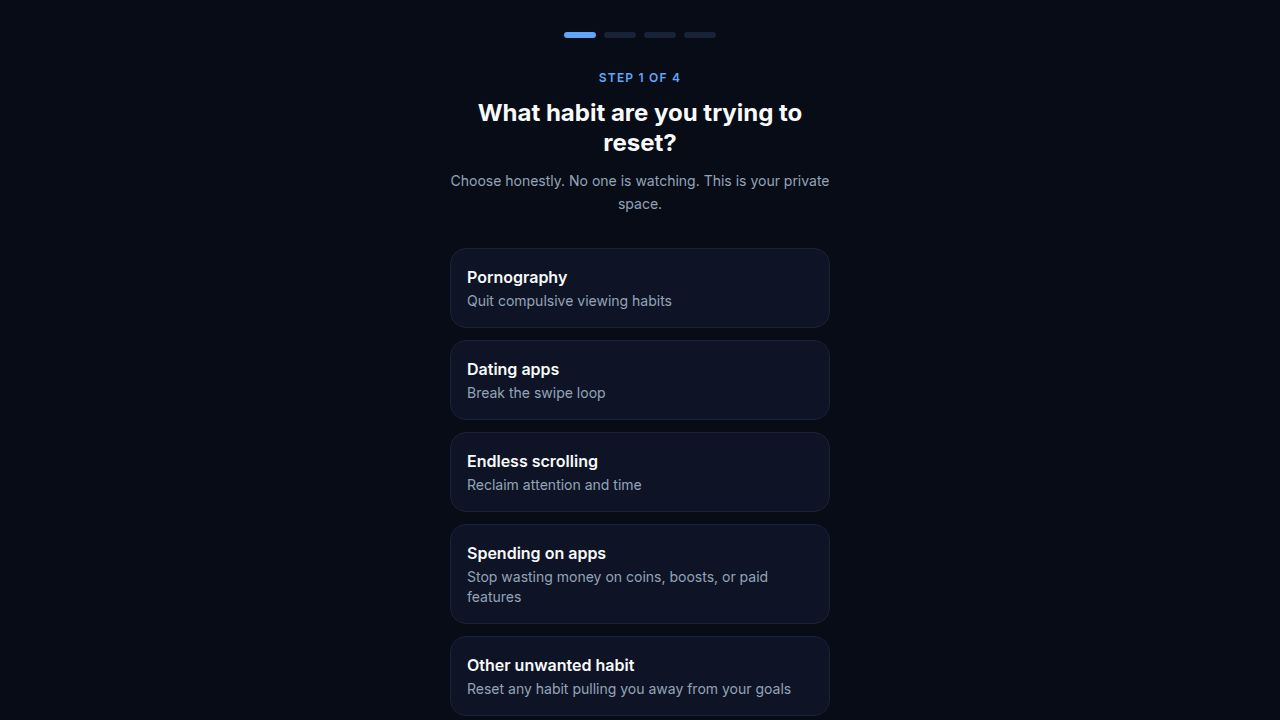
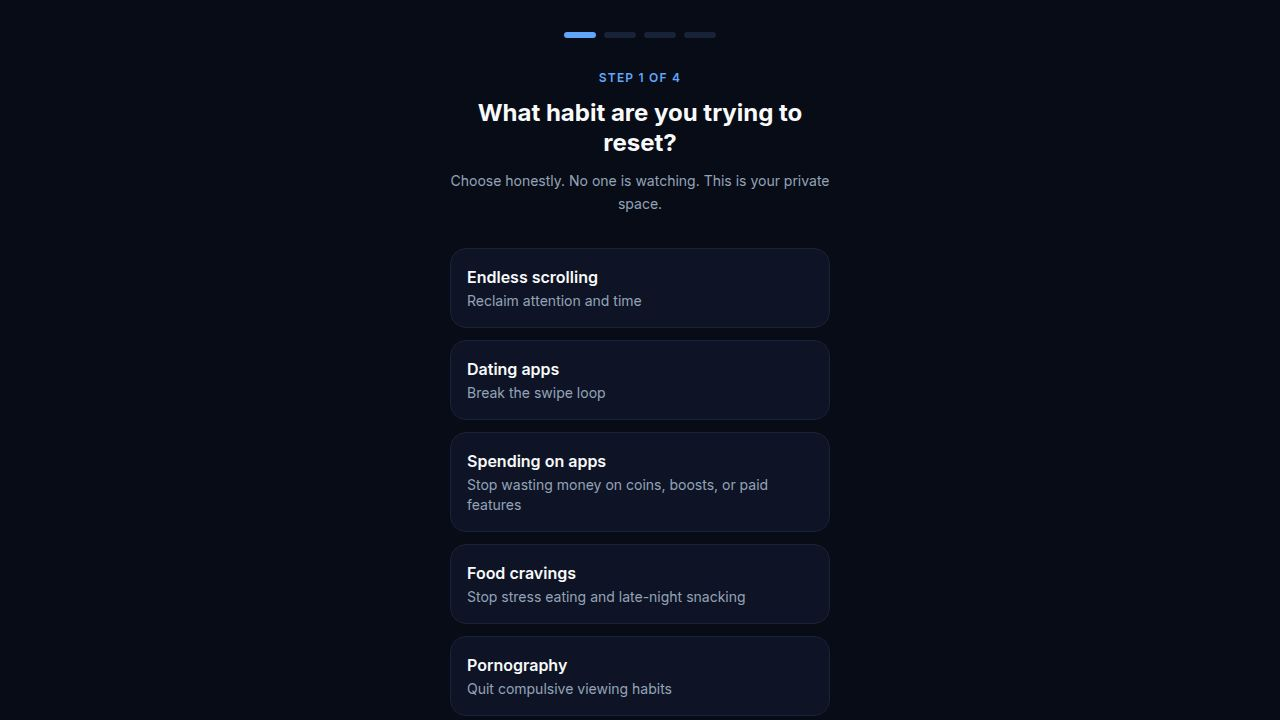
Add food cravings as a habit option and enhance journaling
Introduce a new habit option for food cravings, including personalized dashboard messages, reminders, journal prompts, and simulation scenarios. This update reorders existing habit options and adds new content while ensuring no existing features or user data are affected.

Replit-Commit-Author: Agent
Replit-Commit-Session-Id: 0effe963-2fe0-43ae-a0b1-7ca2946d003b
Replit-Commit-Checkpoint-Type: full_checkpoint
Replit-Commit-Event-Id: 398e0b98-f2e5-4a91-ab90-6e26aaa73a98
Replit-Commit-Screenshot-Url: https://storage.googleapis.com/screenshot-production-us-central1/4121feaa-ffd3-4787-ab1d-226ff5b35744/0effe963-2fe0-43ae-a0b1-7ca2946d003b/EosXHPg
Replit-Helium-Checkpoint-Created: true

diff --git a/artifacts/reset-mode/src/lib/habitContent.ts b/artifacts/reset-mode/src/lib/habitContent.ts
@@ -1,0 +1,53 @@
+import type { HabitType } from "./storage";
+
+// Per-habit content overrides. Any habit without an entry falls back to the
+// existing generic copy, so this module is purely additive — it never changes
+// behavior for habits it does not explicitly cover.
+
+// Reminder lines used during the danger zone, tailored to the habit.
+const DANGER_MESSAGES: Partial<Record<NonNullable<HabitType>, string[]>> = {
+  food: [
+    "The craving is loud right now. Drink a glass of water and let it pass.",
+    "You are not hungry — you are triggered. Breathe before the kitchen.",
+    "This late-night pull will fade. Protect tomorrow's version of you.",
+    "You don't need the snack. You need one calm decision.",
+    "Stress is not hunger. Reset before you reach for food.",
+    "Ride the craving — don't feed it. It passes in minutes.",
+    "Don't trade tomorrow's progress for tonight's snack.",
+    "Your danger zone has started. Step away from the fridge and breathe.",
+  ],
+};
+
+export function habitDangerMessages(habit: HabitType): string[] | undefined {
+  return habit ? DANGER_MESSAGES[habit] : undefined;
+}
+
+// Motivational "daily reminder" copy shown on the dashboard, bucketed by streak.
+// Returns null when the habit has no override so the caller keeps its default.
+export function habitDailyReminder(habit: HabitType, streak: number): string | null {
+  if (habit === "food") {
+    if (streak === 0) return "Every reset starts with one clean day. Today you choose control over the craving.";
+    if (streak < 7) return "Win the next craving. Water, wait ten minutes, and it passes.";
+    if (streak < 14) return "You have ridden out cravings before. Do it again.";
+    return "You are not giving up food. You are taking back control of when and why you eat.";
+  }
+  return null;
+}
+
+// Journal copy tailored to what the urge pulls the user toward.
+export interface JournalCopy {
+  calledByLabel: string;
+  calledByPlaceholder: string;
+  triggerPlaceholder: string;
+}
+
+export function habitJournalCopy(habit: HabitType): JournalCopy | null {
+  if (habit === "food") {
+    return {
+      calledByLabel: "What food did you crave?",
+      calledByPlaceholder: "e.g. Chips, ice cream, leftovers...",
+      triggerPlaceholder: "e.g. Stress, boredom, late night, walked past the kitchen...",
+    };
+  }
+  return null;
+}

diff --git a/artifacts/reset-mode/src/pages/Journal.tsx b/artifacts/reset-mode/src/pages/Journal.tsx
@@ -6,8 +6,9 @@ import { Textarea } from "@/components/ui/textarea";
 import { Label } from "@/components/ui/label";
 import { Card } from "@/components/ui/card";
 import { Select, SelectContent, SelectItem, SelectTrigger, SelectValue } from "@/components/ui/select";
-import { useJournalEntries } from "@/lib/storage";
-import type { JournalEntry } from "@/lib/storage";
+import { useJournalEntries, useStorage } from "@/lib/storage";
+import { habitJournalCopy } from "@/lib/habitContent";
+import type { JournalEntry, HabitType } from "@/lib/storage";
 
 const MOODS = ["Bored", "Lonely", "Stressed", "Tired", "Rejected", "Anxious"];
 
@@ -30,6 +31,8 @@ function dangerHour(entries: JournalEntry[]): string {
 
 export default function Journal() {
   const [entries, setEntries] = useJournalEntries();
+  const [habit] = useStorage<HabitType>("resetMode_habit", null);
+  const journalCopy = habitJournalCopy(habit);
   const [showForm, setShowForm] = useState(false);
   const [expandedId, setExpandedId] = useState<string | null>(null);
 
@@ -110,17 +113,17 @@ export default function Journal() {
                 <Label className="text-sm text-muted-foreground mb-1.5 block">What triggered it?</Label>
                 <Input
                   data-testid="input-trigger"
-                  placeholder="e.g. Sitting alone, late night, bored..."
+                  placeholder={journalCopy?.triggerPlaceholder ?? "e.g. Sitting alone, late night, bored..."}
                   value={trigger}
                   onChange={(e) => setTrigger(e.target.value)}
                   className="bg-background border-border"
                 />
               </div>
               <div>
-                <Label className="text-sm text-muted-foreground mb-1.5 block">Which app / habit called you?</Label>
+                <Label className="text-sm text-muted-foreground mb-1.5 block">{journalCopy?.calledByLabel ?? "Which app / habit called you?"}</Label>
                 <Input
                   data-testid="input-app-wanted"
-                  placeholder="e.g. Tinder, Instagram..."
+                  placeholder={journalCopy?.calledByPlaceholder ?? "e.g. Tinder, Instagram..."}
                   value={appWanted}
                   onChange={(e) => setAppWanted(e.target.value)}
                   className="bg-background border-border"

diff --git a/artifacts/reset-mode/src/pages/Home.tsx b/artifacts/reset-mode/src/pages/Home.tsx
@@ -5,6 +5,7 @@ import { Button } from "@/components/ui/button";
 import { Card } from "@/components/ui/card";
 import { useStreakInfo, useUrgesDefeated, useStartDate, useSpendings, useStorage, habitLabel } from "@/lib/storage";
 import { OnboardingModal } from "@/components/OnboardingModal";
+import { habitDailyReminder } from "@/lib/habitContent";
 import type { HabitType } from "@/lib/storage";
 
 function StatCard({ icon: Icon, label, value, sub }: { icon: React.ElementType; label: string; value: string | number; sub?: string }) {
@@ -158,15 +159,16 @@ export default function Home() {
             <span className="text-xs uppercase tracking-widest text-muted-foreground font-medium">Daily Reminder</span>
           </div>
           <p className="text-sm text-foreground font-medium leading-relaxed">
-            {currentStreak === 0
-              ? habit
-                ? `Every reset starts with one clean day. Today you choose your goal over ${habitLabel(habit).toLowerCase()}.`
-                : "Every journey starts with a single clean day. This is yours."
-              : currentStreak < 7
-              ? "Win the next 2 minutes. That is all you need."
-              : currentStreak < 14
-              ? "You have already defeated urges before. Do it again."
-              : "You are not quitting pleasure. You are taking back control."}
+            {habitDailyReminder(habit, currentStreak) ??
+              (currentStreak === 0
+                ? habit
+                  ? `Every reset starts with one clean day. Today you choose your goal over ${habitLabel(habit).toLowerCase()}.`
+                  : "Every journey starts with a single clean day. This is yours."
+                : currentStreak < 7
+                ? "Win the next 2 minutes. That is all you need."
+                : currentStreak < 14
+                ? "You have already defeated urges before. Do it again."
+                : "You are not quitting pleasure. You are taking back control.")}
           </p>
         </div>
       </div>

diff --git a/artifacts/reset-mode/src/hooks/useDangerZoneNotifications.ts b/artifacts/reset-mode/src/hooks/useDangerZoneNotifications.ts
@@ -1,6 +1,7 @@
 import { useEffect, useRef } from "react";
 import { useStorage, DEFAULT_SETTINGS } from "@/lib/storage";
-import type { Settings } from "@/lib/storage";
+import type { Settings, HabitType } from "@/lib/storage";
+import { habitDangerMessages } from "@/lib/habitContent";
 import {
   isInDangerWindow,
   nextDangerMessage,
@@ -18,6 +19,7 @@ const INTENSITY_MS: Record<string, number> = {
 
 export function useDangerZoneNotifications() {
   const [settings] = useStorage<Settings>("resetMode_settings", DEFAULT_SETTINGS);
+  const [habit] = useStorage<HabitType>("resetMode_habit", null);
   const intervalRef = useRef<ReturnType<typeof setInterval> | null>(null);
   const morningFiredRef = useRef<string | null>(null); // tracks which day the morning reminder fired
 
@@ -34,10 +36,11 @@ export function useDangerZoneNotifications() {
 
     const intervalMs = INTENSITY_MS[s.dangerZoneIntensity] ?? INTENSITY_MS.normal;
     const goal = s.dangerZoneGoalReminderEnabled && s.userGoal ? s.userGoal : undefined;
+    const habitMsgs = habitDangerMessages(habit);
 
     async function fire() {
       if (!isInDangerWindow(s.dangerZoneStart, s.dangerZoneEnd)) return;
-      const message = nextDangerMessage(goal);
+      const message = nextDangerMessage(goal, habitMsgs);
       const sent = await sendBrowserNotification(message);
       if (!sent) fireInAppReminder(message);
     }
@@ -55,6 +58,7 @@ export function useDangerZoneNotifications() {
     s.dangerZoneIntensity,
     s.dangerZoneGoalReminderEnabled,
     s.userGoal,
+    habit,
   ]);
 
   // ── Morning goal reminder — polls every minute, fires once per day ──────────

diff --git a/artifacts/reset-mode/src/lib/simulation.ts b/artifacts/reset-mode/src/lib/simulation.ts
@@ -7,6 +7,8 @@ import {
   ScrollText,
   CreditCard,
   Flame,
+  UtensilsCrossed,
+  Cookie,
   type LucideIcon,
 } from "lucide-react";
 
@@ -27,7 +29,7 @@ export interface Reflection {
   label: string;
 }
 
-// 8 common weak moments people practice before they happen for real.
+// Common weak moments people practice before they happen for real.
 export const SIMULATIONS: Simulation[] = [
   {
     id: "late_night",
@@ -84,6 +86,20 @@ export const SIMULATIONS: Simulation[] = [
     Icon: Flame,
     scenario:
       "Something on your feed triggered the old craving out of nowhere. Your body reacts before your mind does, and the urge spikes fast.",
+  },
+  {
+    id: "fridge_pull",
+    label: "Late night fridge pull",
+    Icon: UtensilsCrossed,
+    scenario:
+      "It is late and the kitchen is quietly calling. You are not really hungry, but the fridge promises comfort. Your feet are already drifting toward it.",
+  },
+  {
+    id: "stress_snack",
+    label: "Stress snacking after a hard day",
+    Icon: Cookie,
+    scenario:
+      "The day drained you, and food feels like the fastest way to numb it. The snack promises quick relief, even though the stress will still be waiting after the last bite.",
   },
 ];
 

diff --git a/artifacts/reset-mode/src/components/OnboardingModal.tsx b/artifacts/reset-mode/src/components/OnboardingModal.tsx
@@ -6,10 +6,11 @@ import { useStorage, DEFAULT_SETTINGS } from "@/lib/storage";
 import type { HabitType, DangerZonePreset, GoalDistraction, Settings } from "@/lib/storage";
 
 const HABITS: { value: NonNullable<HabitType>; label: string; desc: string }[] = [
-  { value: "porn", label: "Pornography", desc: "Quit compulsive viewing habits" },
-  { value: "dating_apps", label: "Dating apps", desc: "Break the swipe loop" },
   { value: "scrolling", label: "Endless scrolling", desc: "Reclaim attention and time" },
+  { value: "dating_apps", label: "Dating apps", desc: "Break the swipe loop" },
   { value: "spending", label: "Spending on apps", desc: "Stop wasting money on coins, boosts, or paid features" },
+  { value: "food", label: "Food cravings", desc: "Stop stress eating and late-night snacking" },
+  { value: "porn", label: "Pornography", desc: "Quit compulsive viewing habits" },
   { value: "other", label: "Other unwanted habit", desc: "Reset any habit pulling you away from your goals" },
   { value: "all", label: "Full digital reset", desc: "Reset multiple digital habits at once" },
 ];

diff --git a/artifacts/reset-mode/src/lib/notifications.ts b/artifacts/reset-mode/src/lib/notifications.ts
@@ -27,12 +27,18 @@ export const GOAL_MORNING_MESSAGES = (goal: string) => [
 
 let messageIndex = 0;
 let goalMessageIndex = 0;
+let habitMessageIndex = 0;
 
-export function nextDangerMessage(goal?: string): string {
+export function nextDangerMessage(goal?: string, habitMessages?: string[]): string {
   if (goal) {
     const messages = GOAL_DANGER_MESSAGES(goal);
     const msg = messages[goalMessageIndex % messages.length];
     goalMessageIndex++;
+    return msg;
+  }
+  if (habitMessages && habitMessages.length > 0) {
+    const msg = habitMessages[habitMessageIndex % habitMessages.length];
+    habitMessageIndex++;
     return msg;
   }
   const msg = DANGER_MESSAGES[messageIndex % DANGER_MESSAGES.length];

diff --git a/artifacts/reset-mode/src/lib/storage.ts b/artifacts/reset-mode/src/lib/storage.ts
@@ -5,6 +5,7 @@ export type HabitType =
   | "dating_apps"
   | "scrolling"
   | "spending"
+  | "food"
   | "other"
   | "social_media"
   | "all"
@@ -18,6 +19,7 @@ export const HABIT_LABELS: Record<NonNullable<HabitType>, string> = {
   dating_apps: "Dating apps",
   scrolling: "Endless scrolling",
   spending: "Spending on apps",
+  food: "Food cravings",
   other: "Other unwanted habit",
   all: "Full digital reset",
   // legacy values mapped to the closest current label

diff --git a/replit.md b/replit.md
@@ -22,7 +22,8 @@ Reset Mode is a mobile-first, dark-themed PWA that helps people break compulsive
 
 ## Where things live
 
-- `artifacts/reset-mode/src/lib/storage.ts` — all persisted state: typed `localStorage` hooks (`useStorage`, `useSettings`, `useSimulations`, streaks, spendings, journal) and the `resetMode_*` storage keys. Source of truth for user data shapes.
+- `artifacts/reset-mode/src/lib/storage.ts` — all persisted state: typed `localStorage` hooks (`useStorage`, `useSettings`, `useSimulations`, streaks, spendings, journal) and the `resetMode_*` storage keys. Source of truth for user data shapes. `HabitType` + `HABIT_LABELS` define the selectable habits.
+- `artifacts/reset-mode/src/lib/habitContent.ts` — additive per-habit content overrides (reminder/danger messages, streak-bucketed daily-reminder copy, journal copy). Habits without an entry return `null`/`undefined` and fall back to the existing generic copy, so it never changes behavior for habits it does not cover.
 - `artifacts/reset-mode/src/pages/` — one file per route (`Home`, `Urge`, `Simulation`, `Tracker`, `Spending`, `Journal`, `Plan`, `Settings`); routes wired in `src/App.tsx`.
 - `artifacts/reset-mode/src/lib/simulation.ts` — Simulation Mode content (scenarios, actions, reflections), the scripted-guidance fallback, and `fetchResetMasterGuidance` (robust `/api` client that falls back on any failure).
 - `artifacts/api-server/src/routes/resetMaster.ts` — `POST /api/reset-master/guidance` AI route (guided-only, validated, graceful errors); mounted in `src/routes/index.ts`.
